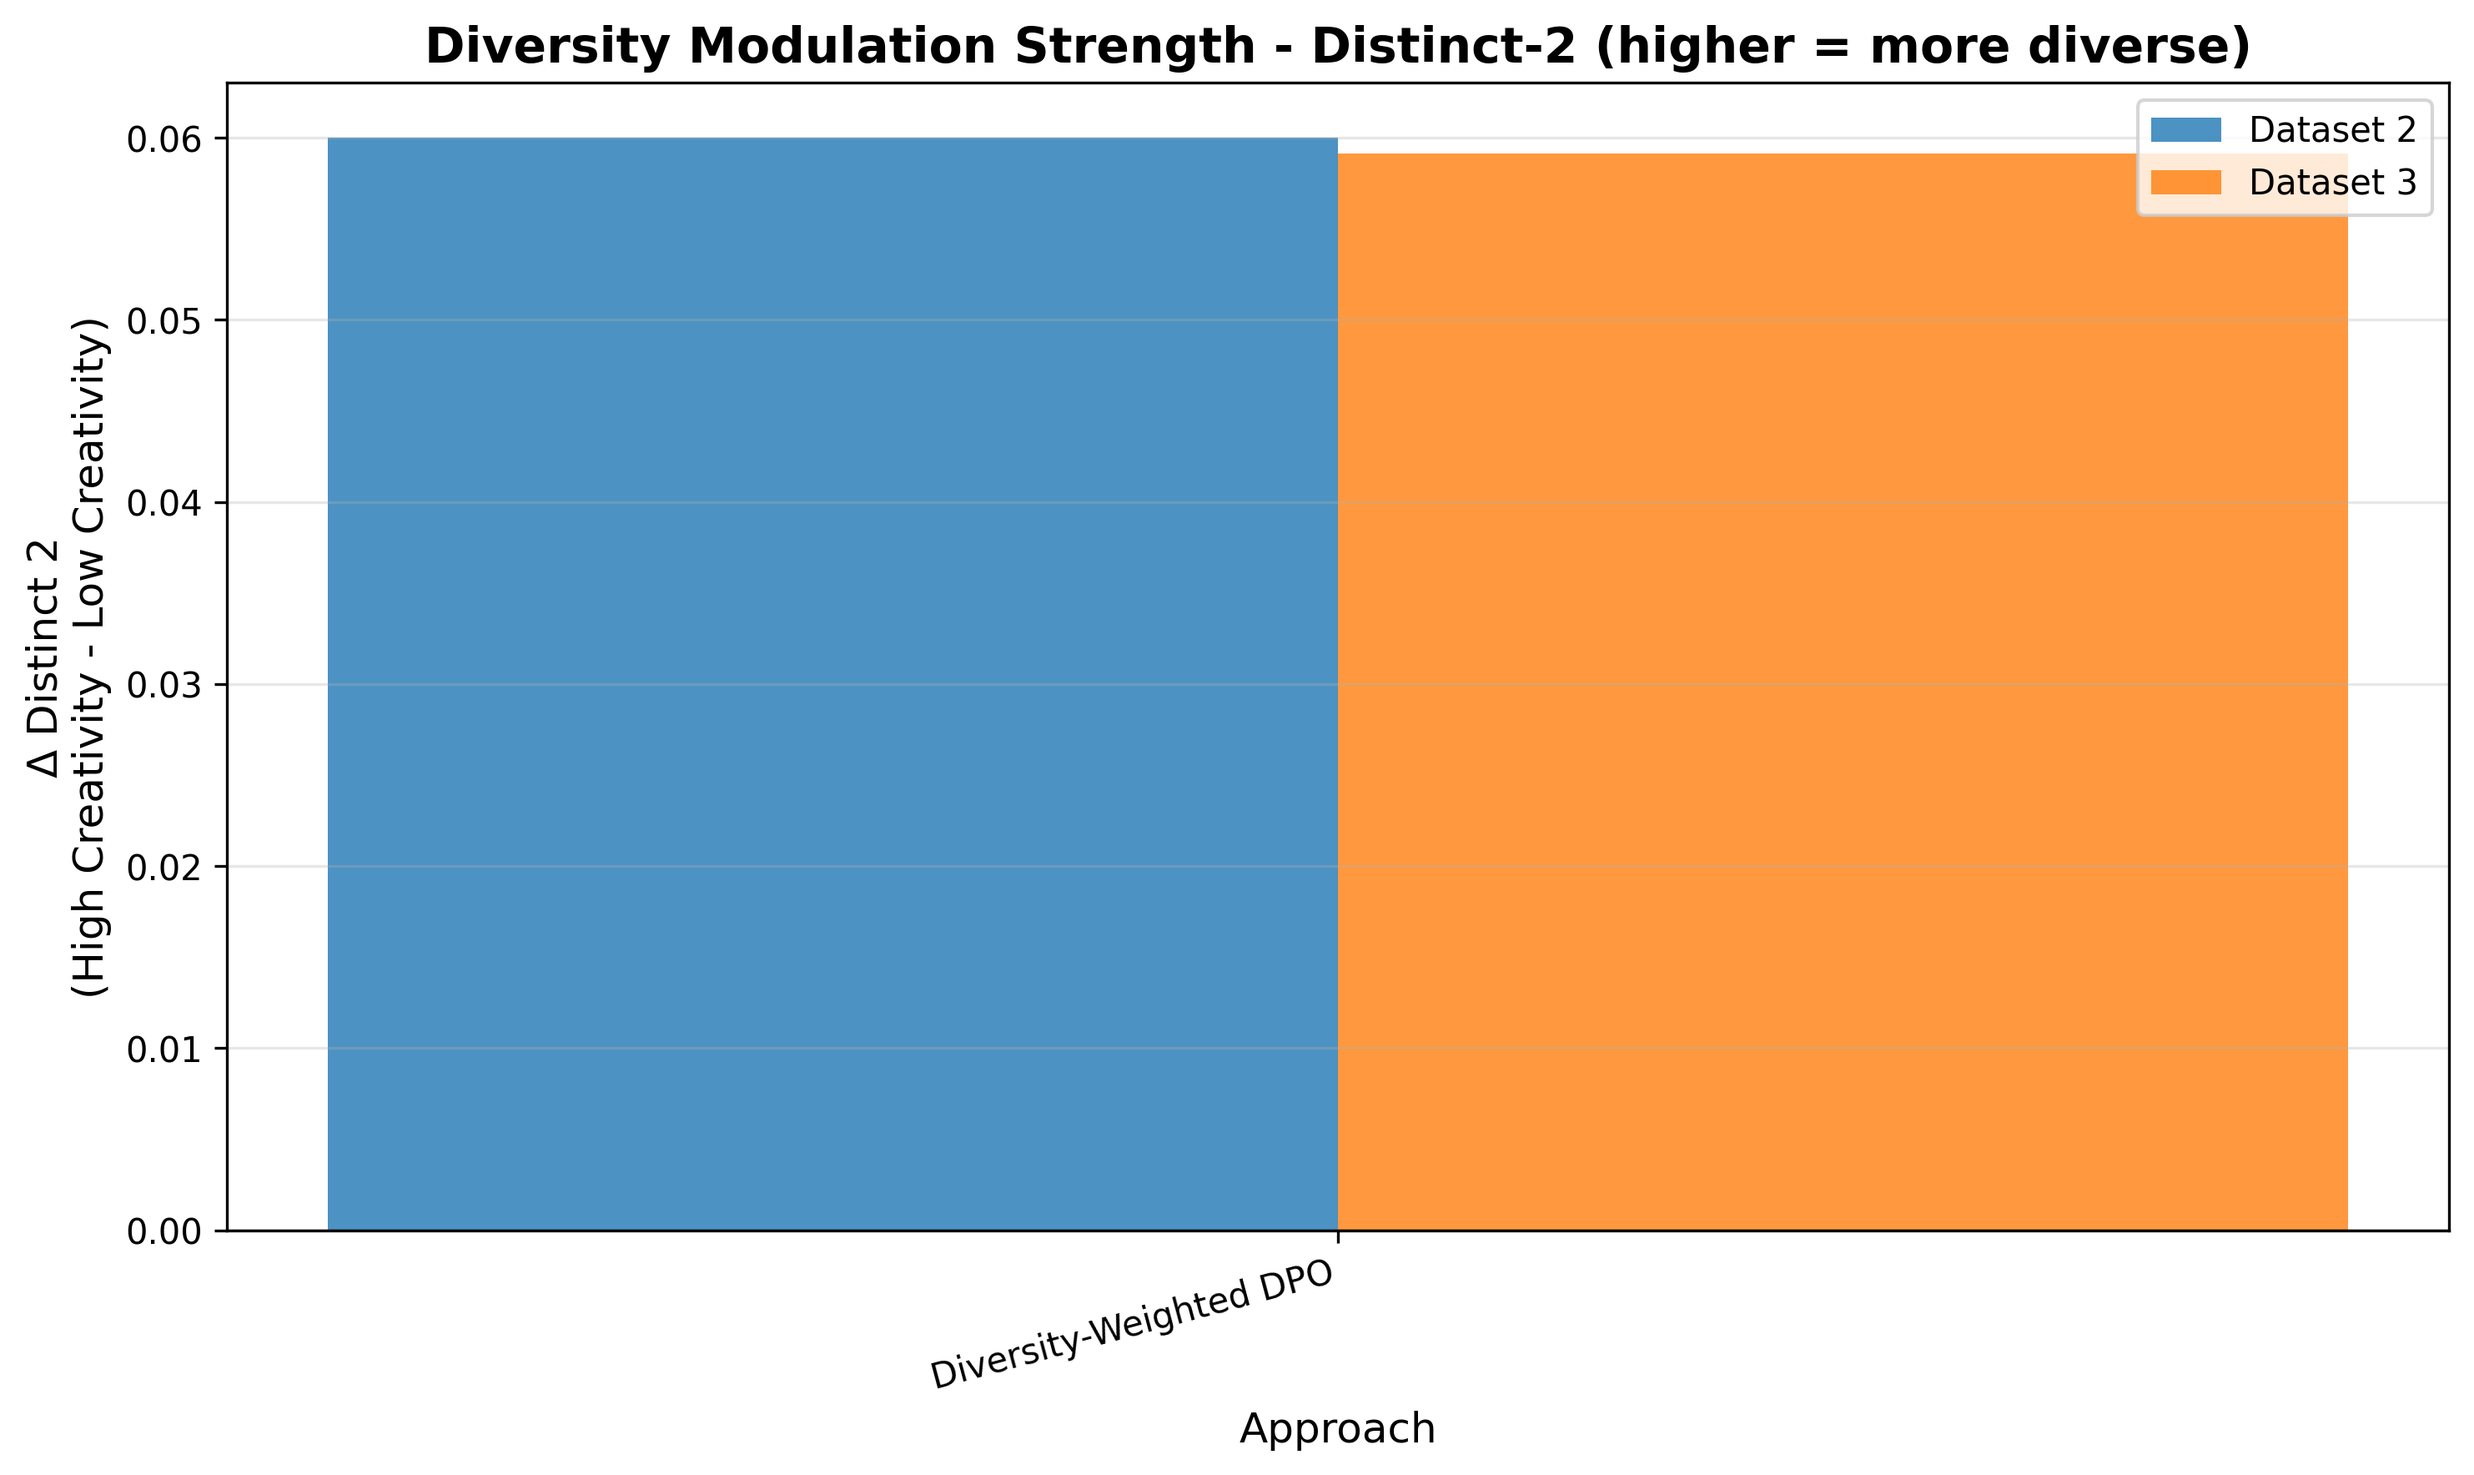
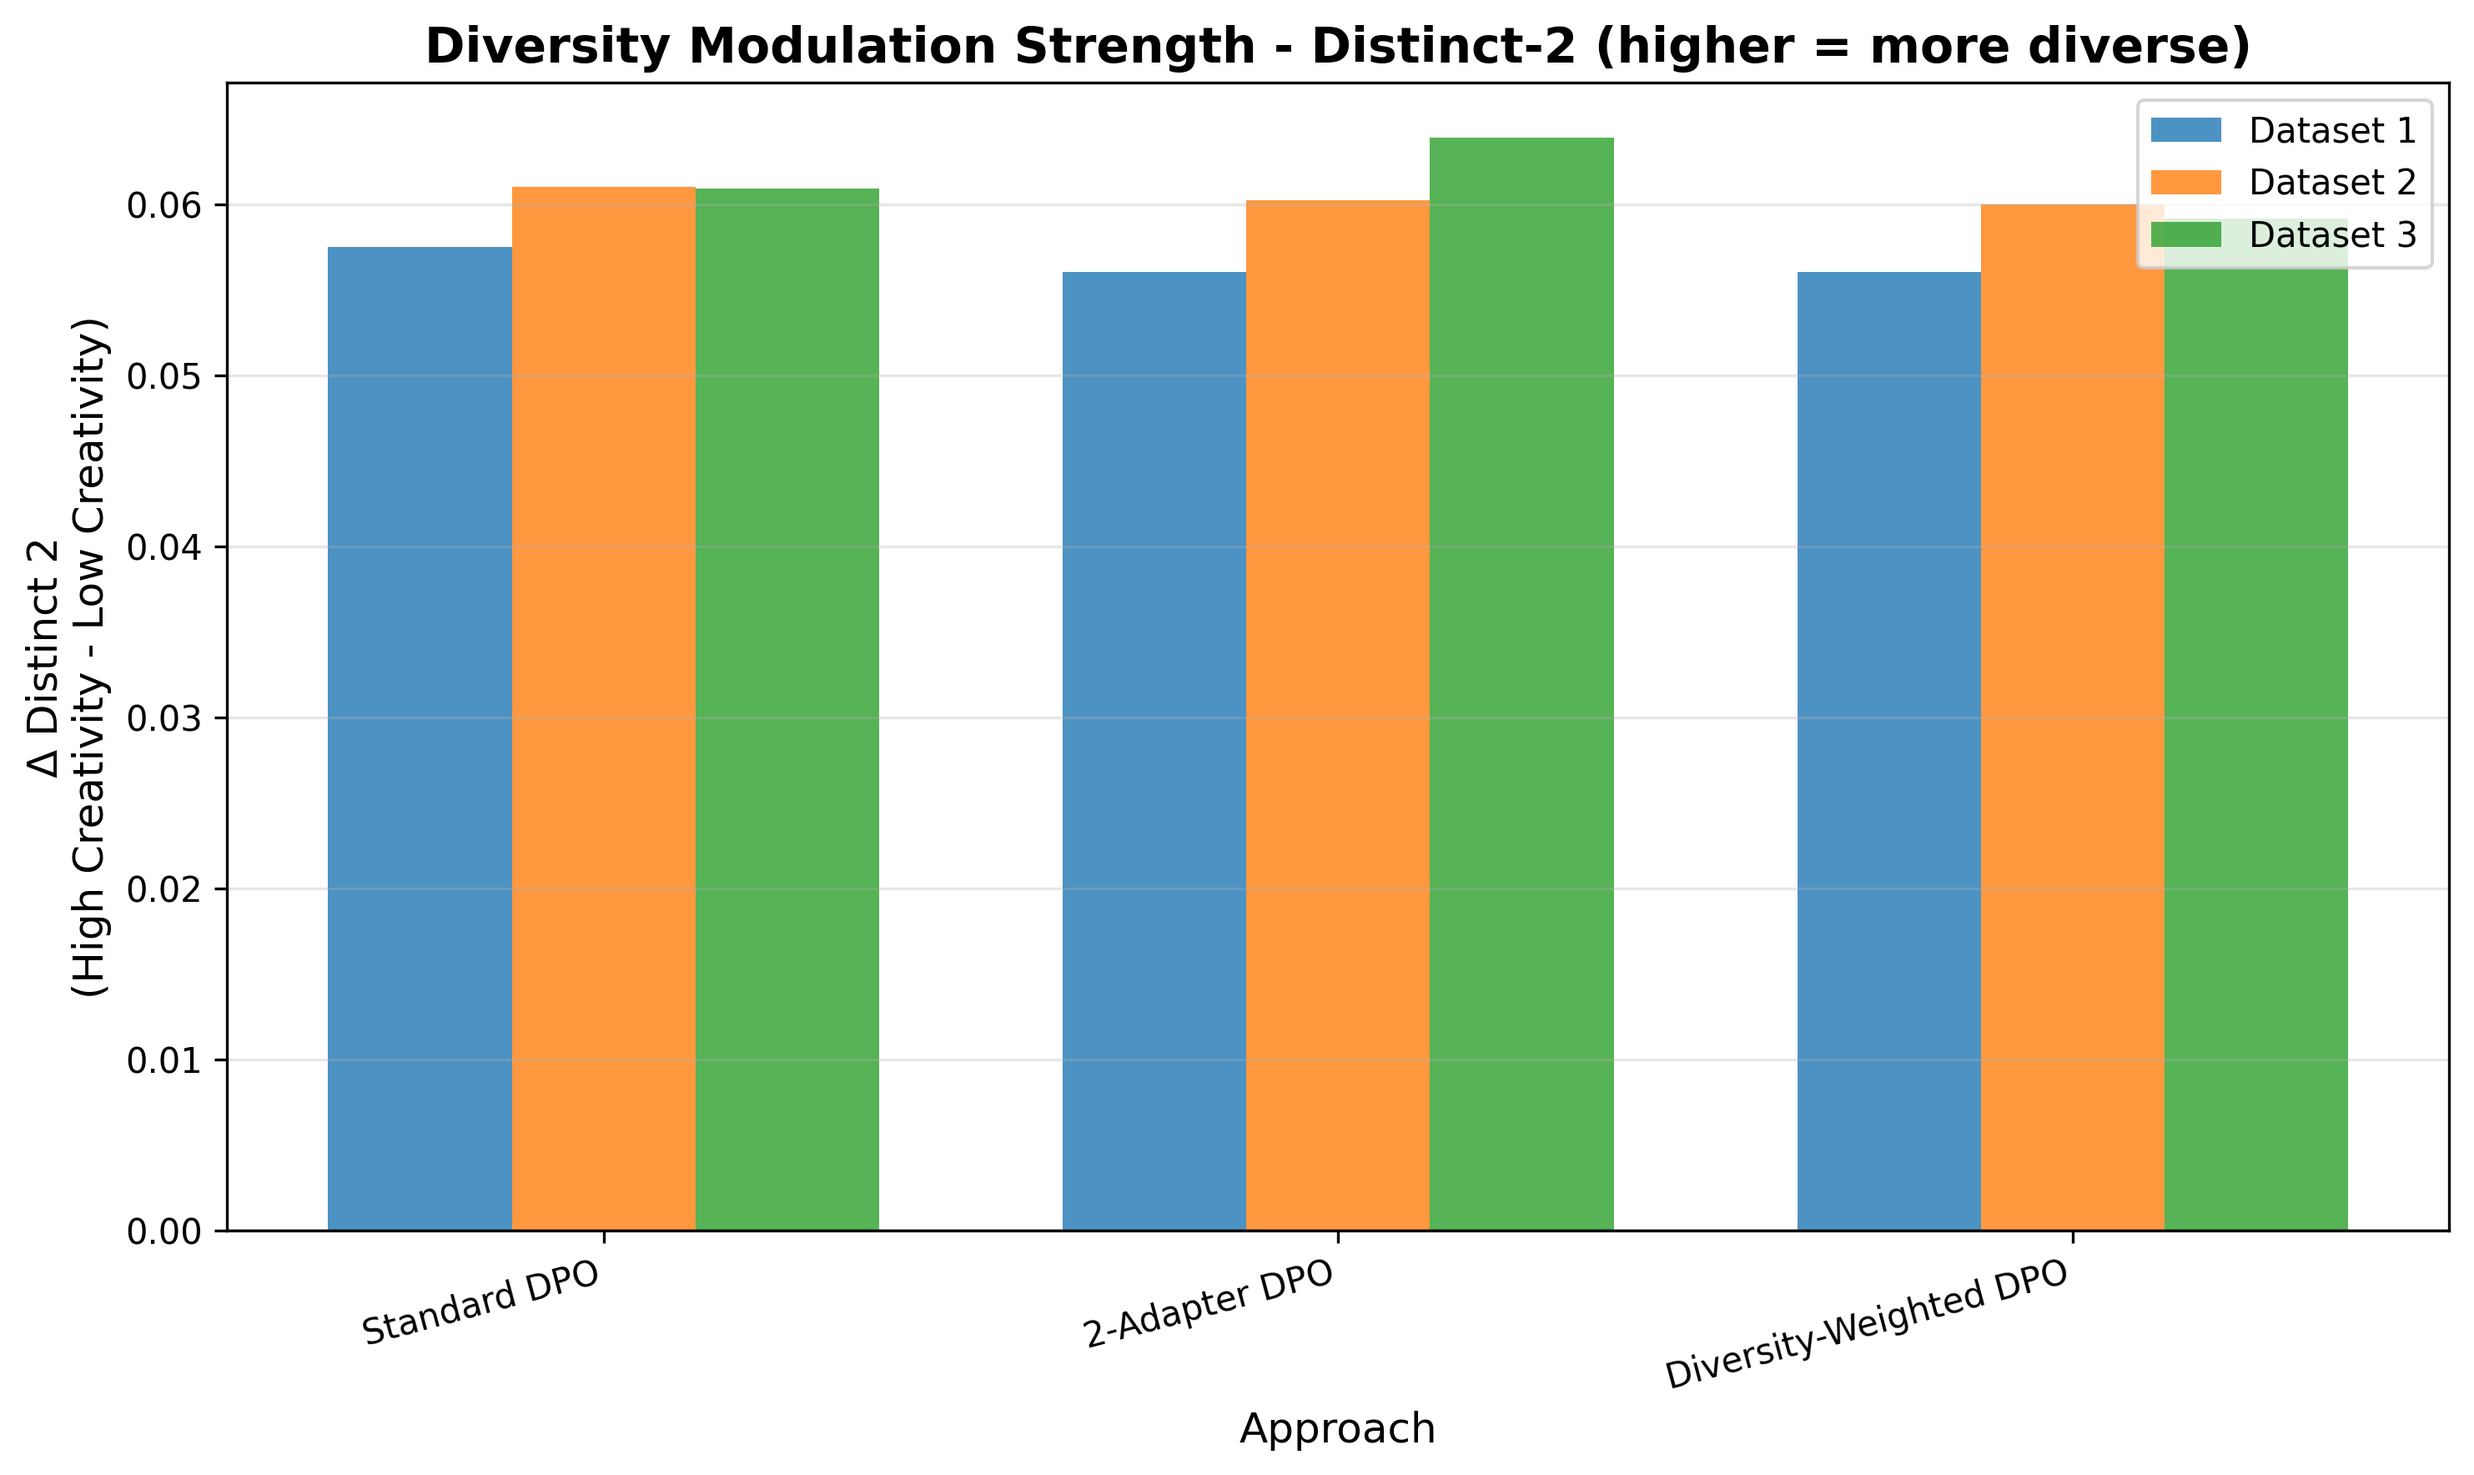
visualizations added

diff --git a/scripts/visualize_results.py b/scripts/visualize_results.py
@@ -20,18 +20,18 @@ from typing import Dict, List, Tuple, Optional
 # Map of (dataset, approach) to inference result JSON file
 INFERENCE_RESULTS = {
     # Dataset 1
-    (1, "standard_dpo"): None,  # "inference_results/standard_dpo/dataset1_xxx.json",
-    (1, "2adapter_dpo"): None,
-    (1, "diversity_weighted_dpo"): None,
+    (1, "standard_dpo"): "inference_results/standard_dpo/final_dataset1.json",  # "inference_results/standard_dpo/dataset1_xxx.json",
+    (1, "2adapter_dpo"): "inference_results/2adapter_dpo_dataset1/sampler_weights.json",
+    (1, "diversity_weighted_dpo"): "inference_results/diversity_weighted_dpo/epoch1_batch19.json",
     
     # Dataset 2
-    (2, "standard_dpo"): None,
-    (2, "2adapter_dpo"): None,
+    (2, "standard_dpo"): "inference_results/standard_dpo/final_dataset2.json",
+    (2, "2adapter_dpo"): "inference_results/2adapter_dpo_dataset2/sampler_weights.json",
     (2, "diversity_weighted_dpo"): "inference_results/diversity_weighted_dpo/dataset2_diversity.json",
     
     # Dataset 3
-    (3, "standard_dpo"): None,
-    (3, "2adapter_dpo"): None,
+    (3, "standard_dpo"): "inference_results/standard_dpo/final_dataset3.json",
+    (3, "2adapter_dpo"): "inference_results/2adapter_dpo_dataset3/sampler_weights.json",
     (3, "diversity_weighted_dpo"): "inference_results/diversity_weighted_dpo/dataset3_diversity.json",
 }
 
